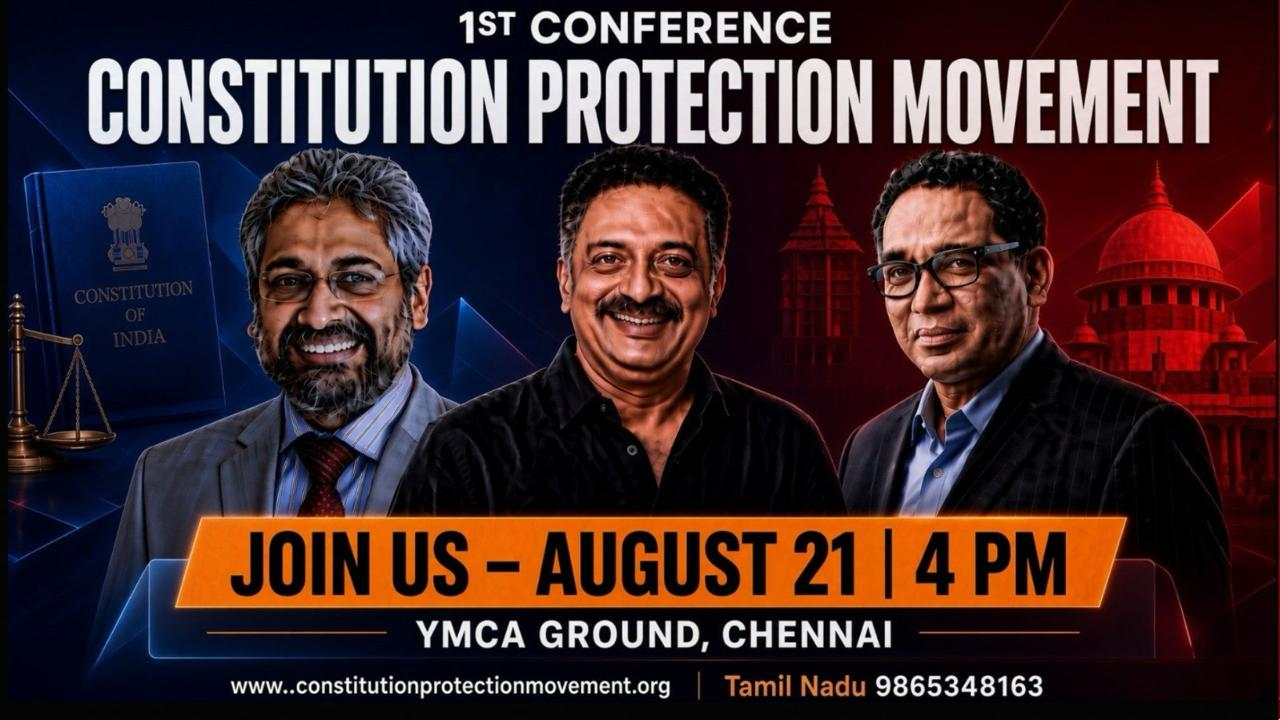
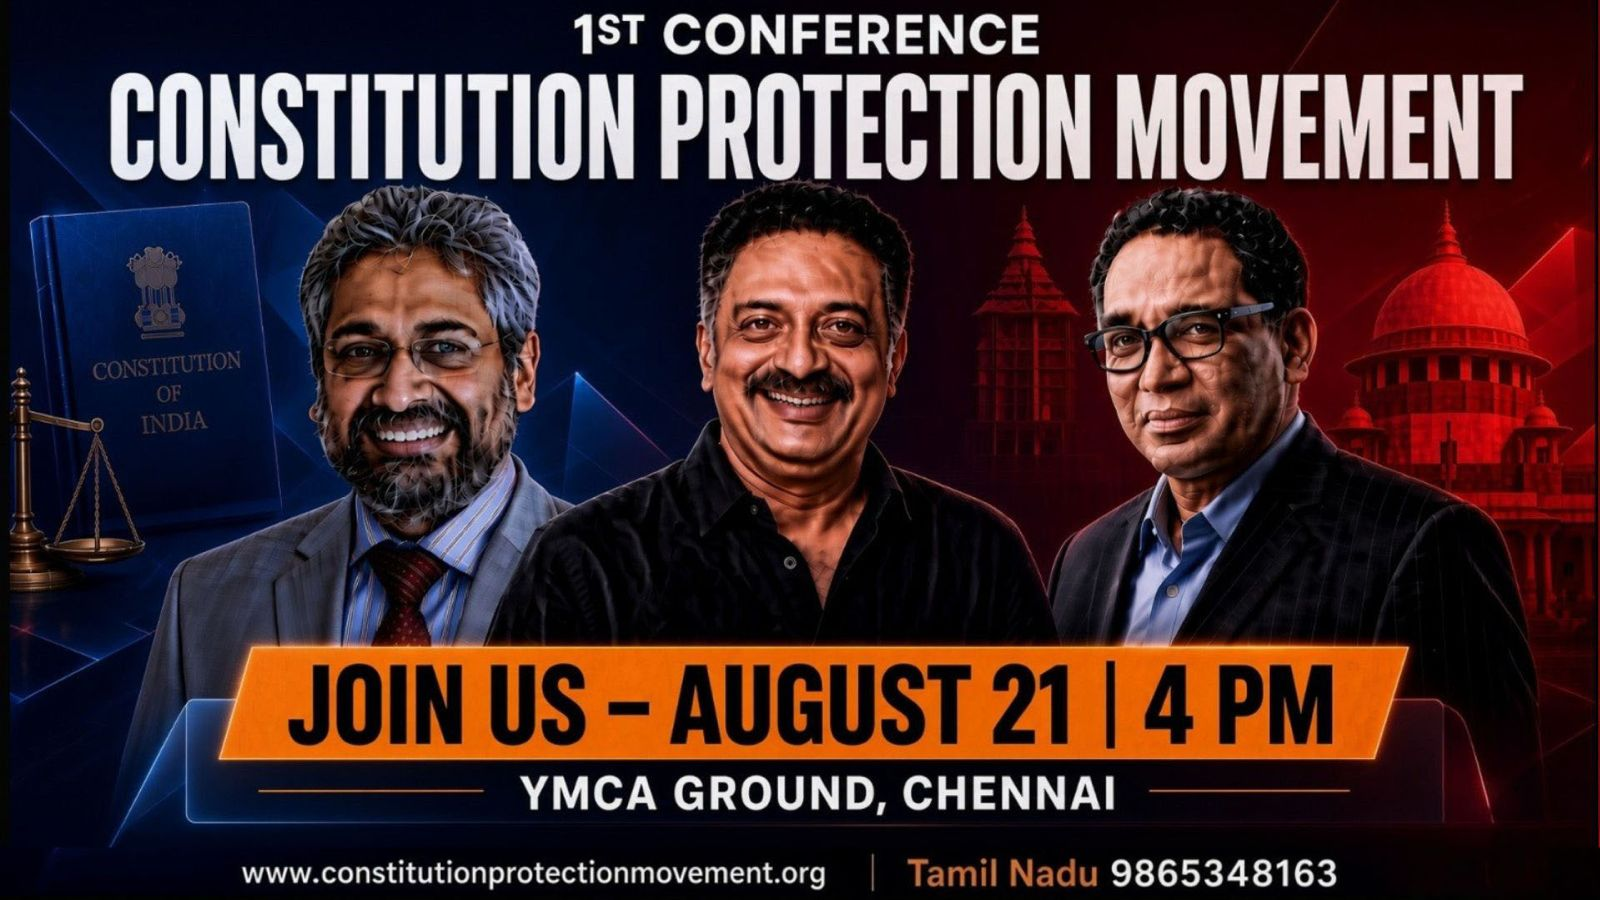
blink-disable-join-movement

Changed region(s): [[0.5625, 0.9167, 0.8438, 1.0], [0.1562, 0.9167, 0.5312, 1.0]]

diff --git a/src/components/ConferenceSection.tsx b/src/components/ConferenceSection.tsx
@@ -775,8 +775,6 @@ export const ConferenceSection: React.FC<ConferenceSectionProps> = ({
                   <motion.button
                     type="submit"
                     disabled={isSubmitting}
-                    animate={isSubmitting ? undefined : { scale: [1, 1.06, 1] }}
-                    transition={{ duration: 2.2, repeat: Infinity, ease: 'easeInOut' }}
                     className="w-full py-3.5 bg-[#0A1F44] hover:bg-[#132D5E] text-[#FFD700] font-black text-xs uppercase tracking-[0.2em] rounded-none shadow-lg hover:shadow-xl transition-all cursor-pointer flex items-center justify-center gap-2 border border-[#FFD700]/30 active:scale-[0.99] mt-2 disabled:opacity-60 disabled:cursor-not-allowed"
                   >
                     <CheckCircle2 className="w-4 h-4 text-[#FFD700]" />
